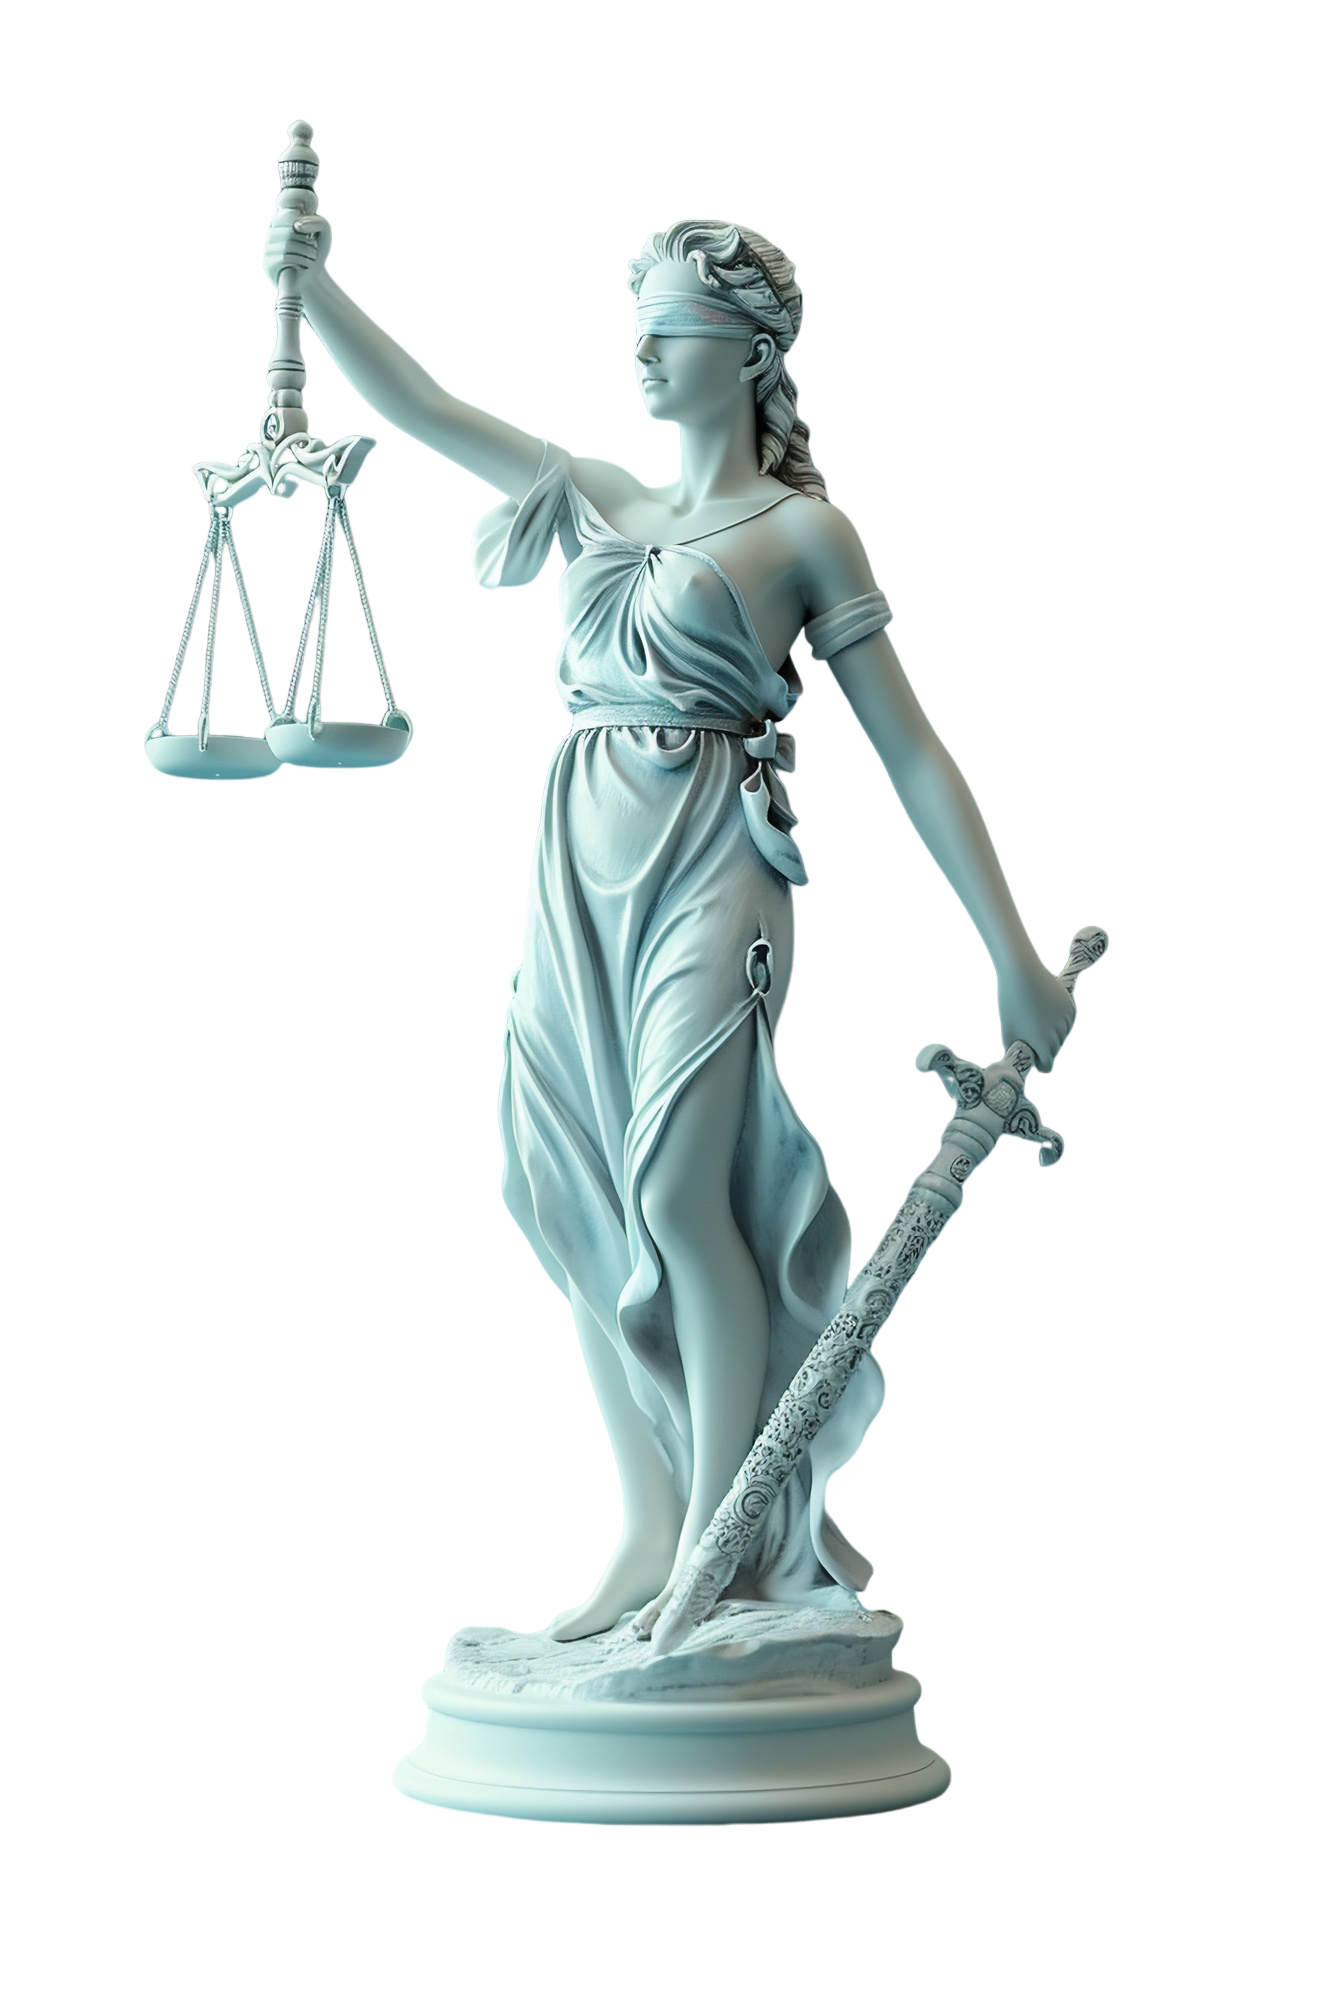
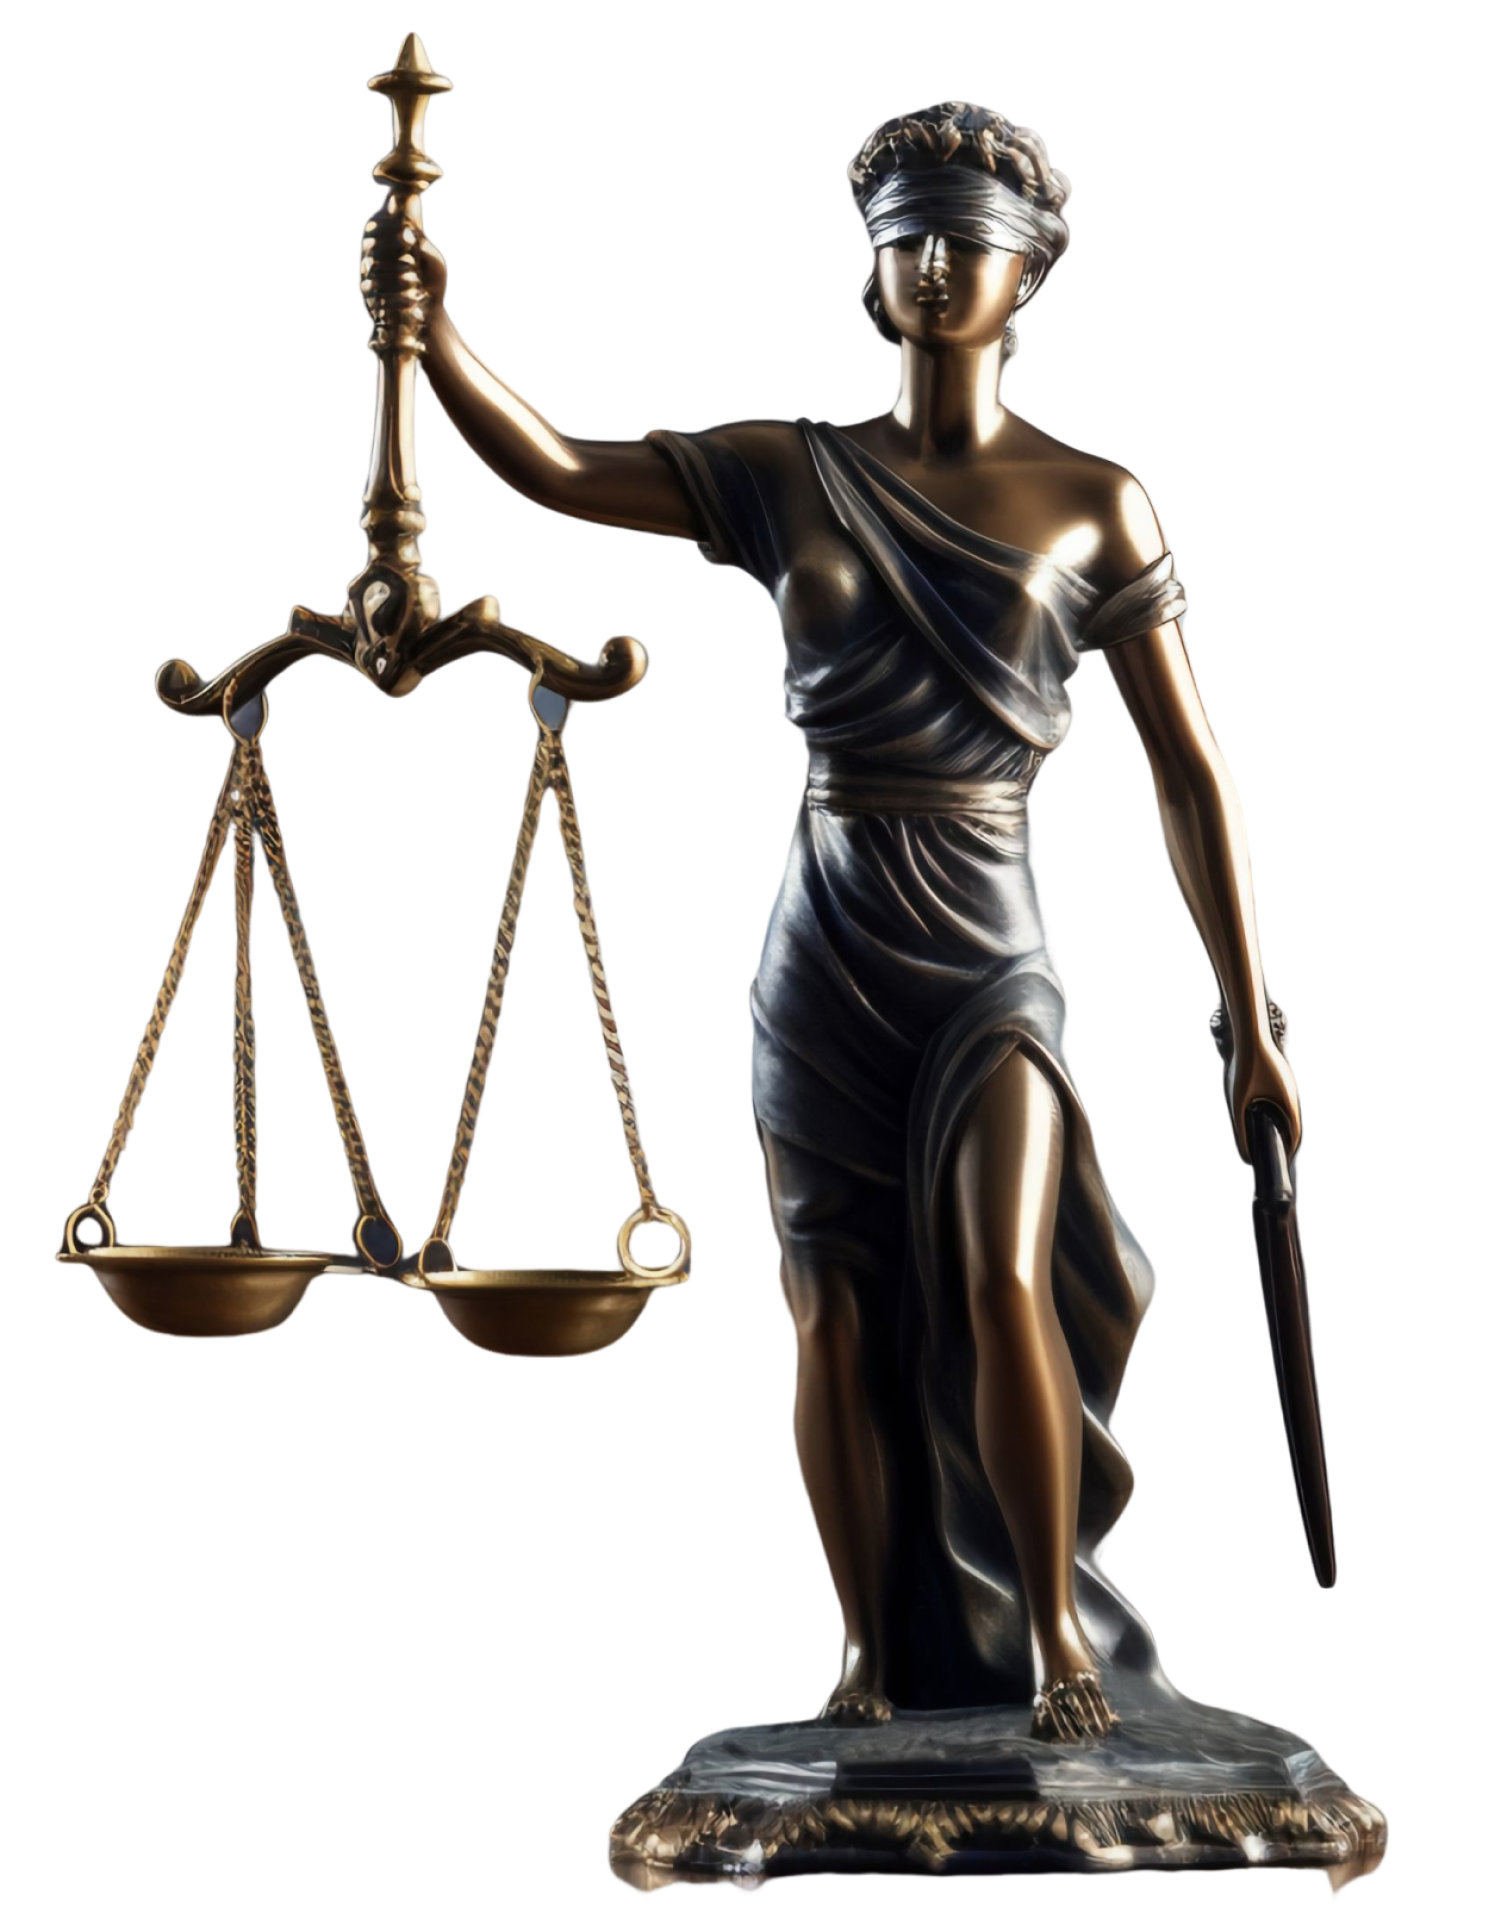
chore: novo header e novo esquema de cores

diff --git a/src/components/WhatsAppButton/WhatsAppButton.jsx b/src/components/WhatsAppButton/WhatsAppButton.jsx
@@ -1,40 +1,27 @@
-import Button from "react-bootstrap/Button";
 import whatsappico from "../../assets/icons/whatsapp.ico";
 import "./WhatsAppButton.scss";
 import PropTypes from 'prop-types';
 
 const WhatsAppButton = ({ text, img = true }) => {
-  const handleClick = () => {
-    window.open(
-      "https://wa.me//5531984524218?text=Ol%C3%A1,%20gostaria%20de%20saber%20mais%20sobre%20os%20seus%20servi%C3%A7os.%20Pode%20me%20dar%20mais%20informa%C3%A7%C3%B5es%3F",
-      "_blank"
-    );
-  };
-
   return (
     <div className="whatsapp">
-      <Button
-        onClick={handleClick}
-        className="button-whatsapp"
-        variant="success"
+      <a
+        href="https://wa.me//5531984524218?text=Ol%C3%A1,%20gostaria%20de%20saber%20mais%20sobre%20os%20seus%20servi%C3%A7os.%20Pode%20me%20dar%20mais%20informa%C3%A7%C3%B5es%3F"
+        target="_blank"
+        rel="noopener noreferrer"
+        className="link-whatsapp"
       >
         <span>{text}</span>
-        <a
-          target="_blank"
-          href="https://wa.me//5531984524218?text=Ol%C3%A1,%20gostaria%20de%20saber%20mais%20sobre%20os%20seus%20servi%C3%A7os.%20Pode%20me%20dar%20mais%20informa%C3%A7%C3%B5es%3F"
-          rel="noopener noreferrer"
-          className="link-whatsapp"
-        >
-          {img && (
-            <img
-              src={whatsappico}
-              alt="Fale Conosco pelo WhatsApp"
-              title="Fale Conosco pelo WhatsApp"
-              className="logo-whatsapp"
-            />
-          )}
-        </a>
-      </Button>
+
+        {img && (
+          <img
+            src={whatsappico}
+            alt="Fale Conosco pelo WhatsApp"
+            title="Fale Conosco pelo WhatsApp"
+            className="logo-whatsapp"
+          />
+        )}
+      </a>
     </div>
   );
 };
@@ -42,6 +29,6 @@ const WhatsAppButton = ({ text, img = true }) => {
 WhatsAppButton.propTypes = {
   text: PropTypes.string.isRequired,
   img: PropTypes.bool
-};
+}
 
 export default WhatsAppButton;

diff --git a/src/components/WhatsAppButton/WhatsAppButton.scss b/src/components/WhatsAppButton/WhatsAppButton.scss
@@ -1,11 +1,22 @@
 .whatsapp {
-  .button-whatsapp {
-    padding: 0.7rem;
-  }
   .link-whatsapp {
+    display: inline-flex;
+    align-items: center;
+    padding: 0.7rem;
+    background-color: #BE8E57; /* Cor de fundo do botão */
+    border: none;
+    color: #fff; /* Cor do texto */
+    text-decoration: none;
+    border-radius: 4px;
+    transition: background-color 0.3s ease;
+
+    &:hover {
+      background-color: #9F723E; /* Cor de fundo do botão ao passar o mouse */
+    }
+
     .logo-whatsapp {
       max-width: 30px;
-      margin: 0 0 0 1rem;
+      margin-left: 1rem; /* Adiciona margem à esquerda para o ícone */
     }
   }
 }

diff --git a/src/components/MenuBar/MenuBar.jsx b/src/components/MenuBar/MenuBar.jsx
@@ -1,12 +1,12 @@
 import { Container, Nav, Navbar } from "react-bootstrap";
 import "./MenuBar.scss";
-import logo from "../../assets/justicia.webp";
+import logo from "../../assets/icons/justica.png";
 import WhatsAppButton from "../WhatsAppButton";
 
 const MenuBar = () => {
   return (
     <div>
-      <Navbar expand="lg" className="menubar-custom">
+      <Navbar data-bs-theme="dark" expand="lg" className="menubar-custom">
         <Container>
           <Navbar.Brand>
             <img className="logo_svg" src={logo} alt="" />

diff --git a/src/components/MenuBar/MenuBar.scss b/src/components/MenuBar/MenuBar.scss
@@ -1,8 +1,8 @@
 .menubar-custom {
-  border-bottom: 1px solid rgba(0, 0, 0, 0.103);
+  background-color: #161921;
 
   .logo_svg {
-    max-width: 8rem;
+    max-width: 6rem;
   }
 
   .navbar-nav {
@@ -11,6 +11,7 @@
 
     .nav-link {
       font-size: 18px;
+      color: #fff;
     }
   }
 }

diff --git a/src/index.css b/src/index.css
@@ -5,8 +5,15 @@
   margin: 0;
   padding: 0;
   box-sizing: border-box;
+  color: white;
+}
+
+body{
+  background-color: #3d444b;
+ 
 }
 
 .card{
   border: none;
+  background-color: transparent;
 }

diff --git a/src/components/Header/Header.scss b/src/components/Header/Header.scss
@@ -3,7 +3,7 @@
     display: flex;
     flex-wrap: wrap;
     justify-content: center;
-    margin: 2rem 0;
+    margin: 5rem 0;
     gap: 3rem 4rem;
 
     .content {

diff --git a/README.md b/README.md
@@ -7,3 +7,27 @@ Currently, two official plugins are available:
 
 - [@vitejs/plugin-react](https://github.com/vitejs/vite-plugin-react/blob/main/packages/plugin-react/README.md) uses [Babel](https://babeljs.io/) for Fast Refresh
 - [@vitejs/plugin-react-swc](https://github.com/vitejs/vite-plugin-react-swc) uses [SWC](https://swc.rs/) for Fast Refresh
+
+
+- /* Color Theme Swatches in Hex */
+
+body { background-color: #3d444b; }
+menubar { background-color: #161921; }
+button { color: #BE8E57; } :hover { color: #9F723E; }
+
+
+
+
+/* Color Theme Swatches in Hex */
+$Gold-Slate-1-hex: #A1815E;
+$Gold-Slate-2-hex: #D8A44E;
+$Gold-Slate-3-hex: #49545F;
+$Gold-Slate-4-hex: #1E2732;
+$Gold-Slate-5-hex: #181D24;
+
+/* Color Theme Swatches in Hex */
+$Copy-of-Blue-and-gold-1-hex: #0E1E33;
+$Copy-of-Blue-and-gold-2-hex: #17283B;
+$Copy-of-Blue-and-gold-3-hex: #EFE8DF;
+$Copy-of-Blue-and-gold-4-hex: #BE8E57;
+$Copy-of-Blue-and-gold-5-hex: #161921;
